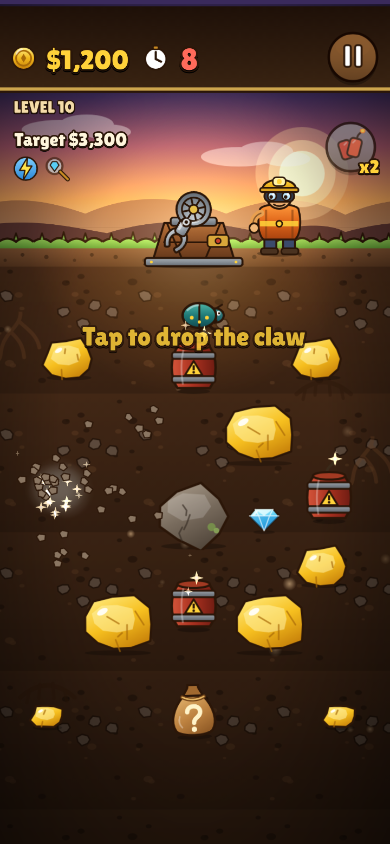
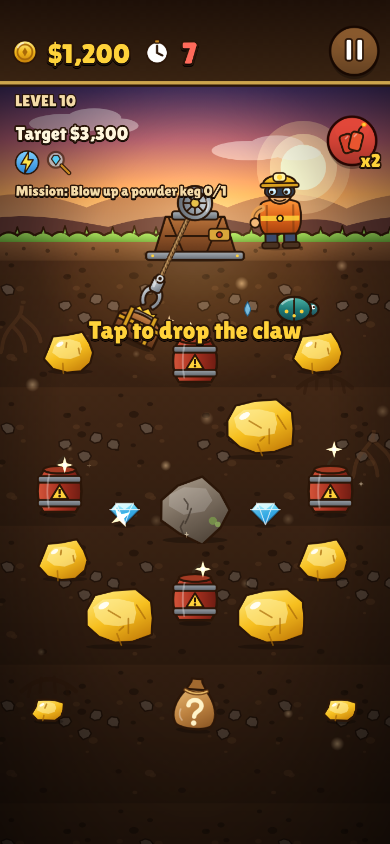
Docs, pause keeps game mode, combo sound, reroll robustness, gallery screenshots
Claude-Session: https://claude.ai/code/session_01MzS7agv8rYuzaX6HZ42hxe

diff --git a/e2e/layout.spec.ts b/e2e/layout.spec.ts
@@ -107,13 +107,32 @@ test('screens gallery (shop, level select, complete, game over, pause, settings)
     s.inventory.blastCaps = 2;
     s.levels = { '1': { stars: 3, best: 1900 }, '2': { stars: 2, best: 2100 }, '3': { stars: 1, best: 1800 }, '4': { stars: 3, best: 3100 }, '5': { stars: 2, best: 2900 }, '6': { stars: 1, best: 2600 }, '7': { stars: 2, best: 3000 } };
     s.phase = 'shop';
-    s.shop = { seed: 11, afterLevel: 7, bought: [] };
+    s.shop = { seed: 11, afterLevel: 7, bought: [], rerolls: 0 };
     d.services.save.save();
   });
+  await goto('MainMenu');
+  await page.screenshot({ path: `${OUT}/screen-menu.png` });
   await goto('Shop');
   await page.screenshot({ path: `${OUT}/screen-shop.png` });
+  await page.evaluate(() => (window as any).__game.scene.getScene('Shop').setTab('deals'));
+  await page.waitForTimeout(1000);
+  await page.screenshot({ path: `${OUT}/screen-shop-deals.png` });
+  await goto('Workshop');
+  await page.screenshot({ path: `${OUT}/screen-workshop-upgrades.png` });
+  await page.evaluate(() => (window as any).__game.scene.getScene('Workshop').setTab('claws'));
+  await page.waitForTimeout(800);
+  await page.screenshot({ path: `${OUT}/screen-workshop-claws.png` });
+  await page.evaluate(() => (window as any).__game.scene.getScene('Workshop').setTab('style'));
+  await page.waitForTimeout(800);
+  await page.screenshot({ path: `${OUT}/screen-workshop-style.png` });
+  await goto('Achievements');
+  await page.screenshot({ path: `${OUT}/screen-achievements.png` });
+  await goto('Results', { kind: 'endless', score: 4200, waves: 6, newBest: true, walletGain: 1260, best: 4200, bestWaves: 6, unlocked: ['endless5'] });
+  await page.screenshot({ path: `${OUT}/screen-results-endless.png` });
   await goto('LevelSelect');
   await page.screenshot({ path: `${OUT}/screen-levelselect.png` });
+  await goto('LevelSelect', { world: 3 });
+  await page.screenshot({ path: `${OUT}/screen-levelselect-world3.png` });
   await goto('LevelComplete', { levelId: 7, earned: 3600, target: 2700, won: true, blastCapsLeft: 2, stars: 3, firstClear: true, newBest: true, walletGain: 3600 });
   await page.screenshot({ path: `${OUT}/screen-levelcomplete.png` });
   await goto('GameOver', { levelId: 7, earned: 1900, target: 2700 });
@@ -124,6 +143,19 @@ test('screens gallery (shop, level select, complete, game over, pause, settings)
     d.services.save.data.boosts.turbo = true;
     d.services.save.data.boosts.gemLens = true;
   });
+  for (const lv of [25, 45, 65, 85]) {
+    await goto('Game', { levelId: lv });
+    await page.screenshot({ path: `${OUT}/screen-game-level${lv}.png` });
+  }
+  await goto('Game', { levelId: 20 });
+  await page.evaluate(() => {
+    const game = (window as any).__game.scene.getScene('Game');
+    game.scene.pause();
+    game.scene.launch('Story', { beat: 'w1_boss', from: 'Game' });
+  });
+  await waitScene(page, 'Story');
+  await page.waitForTimeout(3500);
+  await page.screenshot({ path: `${OUT}/screen-story.png` });
   await goto('Game', { levelId: 10 });
   await page.evaluate(() => {
     const s = (window as any).__dc.session;

diff --git a/src/scenes/Pause.ts b/src/scenes/Pause.ts
@@ -8,13 +8,15 @@ import { COLORS, Layout, txt } from '../ui/theme';
 /** Overlay scene shown while the Game scene is paused. */
 export class Pause extends Phaser.Scene {
   private levelId = 1;
+  private mode: 'campaign' | 'weekly' | 'endless' = 'campaign';
 
   constructor() {
     super('Pause');
   }
 
-  init(data: { levelId: number }): void {
+  init(data: { levelId: number; mode?: 'campaign' | 'weekly' | 'endless' }): void {
     this.levelId = data.levelId;
+    this.mode = data.mode ?? 'campaign';
   }
 
   create(): void {
@@ -24,7 +26,7 @@ export class Pause extends Phaser.Scene {
     dim(this, layout, 0.66);
     panel(this, cx, cy, 600, 780);
     txt(this, cx, cy - 300, t('paused').toUpperCase(), 72, { color: COLORS.textGold, strokeW: 10 });
-    txt(this, cx, cy - 230, t('level', { n: this.levelId }), 36, { color: '#f4dba8' });
+    txt(this, cx, cy - 230, this.mode === 'campaign' ? t('level', { n: this.levelId }) : this.mode === 'weekly' ? t('weeklyTitle') : t('endless'), 36, { color: '#f4dba8' });
 
     const resume = () => {
       this.scene.stop();
@@ -40,7 +42,7 @@ export class Pause extends Phaser.Scene {
       tint: COLORS.gold,
       onClick: () => {
         this.scene.stop();
-        this.scene.start('Game', { levelId: this.levelId });
+        this.scene.start('Game', { levelId: this.levelId, mode: this.mode });
       },
     });
     new Button(this, cx, cy + 110, {
@@ -50,7 +52,7 @@ export class Pause extends Phaser.Scene {
       tint: COLORS.blue,
       onClick: () => {
         this.scene.pause();
-        this.scene.launch('Settings', { from: 'Pause', levelId: this.levelId });
+        this.scene.launch('Settings', { from: 'Pause', levelId: this.levelId, mode: this.mode });
       },
     });
     new Button(this, cx, cy + 230, {

diff --git a/src/scenes/Game.ts b/src/scenes/Game.ts
@@ -428,7 +428,7 @@ export class Game extends Phaser.Scene {
     services.audio.loop('reel', false);
     this.reelOn = false;
     this.scene.pause();
-    this.scene.launch('Pause', { levelId: this.levelId });
+    this.scene.launch('Pause', { levelId: this.levelId, mode: this.mode });
   }
 
   // ------------------------------------------------------------------ loop
@@ -555,7 +555,7 @@ export class Game extends Phaser.Scene {
     if (ev.kind === 'diamond' || (ev.kind === 'beetle' && ev.value > 100)) audio.sfx('diamond');
     else if (ev.kind === 'chest') audio.sfx('bag');
     else if (ev.kind === 'rockS' || ev.kind === 'rockL') audio.sfx('rock');
-    else audio.sfx('gold');
+    else audio.sfx('gold', 1, Math.min(1.5, 1 + 0.05 * ev.combo));
     if (ev.value > 0) this.floats.show(this, px, py - 30, '+' + money(ev.value), COLORS.textGold, ev.value >= 500 ? 64 : 52);
     audio.vibrate(ev.value >= 500 ? 35 : 15);
   }

diff --git a/src/scenes/Settings.ts b/src/scenes/Settings.ts
@@ -9,6 +9,7 @@ import type { Lang } from '../systems/Save';
 interface Data {
   from: 'MainMenu' | 'Pause';
   levelId?: number;
+  mode?: 'campaign' | 'weekly' | 'endless';
 }
 
 /** Overlay scene: music / SFX sliders, vibration, language, reset. */
@@ -117,7 +118,7 @@ export class Settings extends Phaser.Scene {
   }
 
   private close(refresh: boolean, toMenu = false): void {
-    const { from, levelId } = this.data0;
+    const { from, levelId, mode } = this.data0;
     services.save.save();
     this.scene.stop();
     if (from === 'MainMenu') {
@@ -131,7 +132,7 @@ export class Settings extends Phaser.Scene {
         return;
       }
       this.scene.stop('Pause');
-      this.scene.launch('Pause', { levelId });
+      this.scene.launch('Pause', { levelId, mode });
     }
   }
 }

diff --git a/src/systems/Shop.ts b/src/systems/Shop.ts
@@ -49,8 +49,8 @@ export function dealOffers(seed: number, rerolls = 0): ShopOffer[] {
   });
 }
 
-export function rerollCost(rerolls: number): number {
-  return SHOP.rerollBase * (rerolls + 1);
+export function rerollCost(rerolls = 0): number {
+  return SHOP.rerollBase * ((rerolls || 0) + 1);
 }
 
 export function reroll(save: SaveData): boolean {
@@ -58,7 +58,7 @@ export function reroll(save: SaveData): boolean {
   const cost = rerollCost(save.shop.rerolls);
   if (save.wallet < cost) return false;
   save.wallet -= cost;
-  save.shop.rerolls++;
+  save.shop.rerolls = (save.shop.rerolls || 0) + 1;
   save.shop.bought = [];
   return true;
 }

diff --git a/docs/REPORT.md b/docs/REPORT.md
@@ -2,36 +2,50 @@
 
 ## Yapılanlar
 
+**Temel oyun**
 - Phaser 3.90.0 + TypeScript (strict) + Vite. `npm run build` hatasız, `base: './'`.
-- 10 sahne: Boot, Preload, Ana Menü, Bölüm Seçimi, Oyun, Duraklat, Ayarlar, Bölüm Tamam, Oyun Bitti, Dükkân. Geçişler 240 ms solma.
-- Kanca durum makinesi (Swinging, Launching, Hooked, Missed, Retracting, Collecting), süpürmeli (swept) çarpışma, dt en fazla 50 ms.
-- 9 nesne türü: altın (3 boy), elmas, kaya (2 boy), gizemli torba, barut fıçısı (zincirleme patlama), böcek (hareketli).
-- 20 bölüm (`src/data/levels.ts`), 60 sn, hedef, 1-2-3 yıldız, denge kontrolü.
-- Dükkân: 8 eşya. Patlatıcı Kapsül (kalıcı); Turbo Vinç Yağı, Şanslı Fener, Mücevher Merceği, Cevher Ezici, Kum Saati (+15 sn), Altın Ateşi (altın x1,5), Yardımcı Madenci (7 sn'de bir en yakın altını alır) sadece sonraki bölüm için. Her ziyarette 4 boost + Kapsül görünür. Fiyatlar yüksek (300-4500).
-- Kayıt: localStorage, sürümlü JSON, bozuk/eski kayıt güvenli. İngilizce / Türkçe.
-- Orijinal SVG görseller (`public/assets/images`) ve sentezlenmiş sesler (`public/assets/audio`), tek manifest.
-- Sayfa arka plana gidince otomatik duraklama ve ses kısma.
+- Kanca durum makinesi, süpürmeli çarpışma, dt en fazla 50 ms, 9+2 nesne türü (altın x3, elmas, kaya x2, gizemli torba, barut fıçısı, böcek, hazine sandığı, asit balçığı).
+- Kayıt (localStorage, sürümlü, bozuk veriye dayanıklı), İngilizce / Türkçe, sesler ve müzik, orijinal SVG görseller.
+
+**Bölümler ve hikaye**
+- **100 bölüm**, 5 dünya (Eski Maden, Yankı Mağaraları, Magma Derinlikleri, Donmuş Kasa, Uçurum). İlk 20 bölüm elle tasarlandı, 21-100 `tools/build-levels.ts` ile üretilip veri olarak kaydedildi (`src/data/generatedLevels.ts`). Her dünyanın kendi renk teması var.
+- Her 20. bölüm bir **patron bölümü** (ek ödül).
+- **Hikaye modu**: Dusty (madenci), Çakıl (köstebek) ve Baron Gizmo ile 5 bölümlük hikaye. Her dünyanın başında bölüm kartı, ortasında ve patronda diyalog, 100. bölümden sonra final. Diyaloglar bir kez gösterilir, "Geç" ile atlanır (`src/data/story.ts`).
+- Her bölümde **yan görev** (elmas topla, seri yap, fıçı patlat...). Görev ödülü ilk geçişte verilir.
+
+**Oynanış**
+- **Seri (combo)**: art arda değerli çekişler x1,5'e kadar çarpan verir, boş çekiş ve kaya seriyi bozar.
+- Yakın kaybetme ekranı ("Ramak kaldı, sadece X eksik"), tek dokunuşla tekrar dene.
+- Zaman Dondurucu (süre ve böcekler 6 sn durur), Atlama Bileti (geçemediğin bölümü atla).
+- Elmas/sandık/büyük altında sarsıntı ve parlama, balçık çekersen para kaybedersin.
+
+**Para harcama yerleri (dükkân tek yer değil)**
+- **Dükkân** (bölüm sonrası ve menüden): Malzeme sekmesi (Patlatıcı, Patlatıcı Paketi, Zaman Dondurucu, Gizemli Sandık, Atlama Bileti) ve Fırsatlar sekmesi (7 güçlendirmeden 4'ü, biri indirimli, ücretle yenilenir).
+- **Atölye** (menüden): kalıcı **Yükseltmeler** (Hızlı Vinç, Güçlü Kollar, Cep Saati, Talih, her biri 5 seviye), **Kancalar** (Geniş, Hızlı, Titan), **Stil** (4 madenci kıyafeti, 4 kanca kaplaması, 3 ip rengi).
+- Ekonomi sıkı: ilk geçişte kazancın %60'ı cüzdana girer, fiyatlar 300-6000 arası.
+
+**Ek modlar ve geri dönüş sebepleri**
+- **Sonsuz mod**: süre sınırı yok, alan temizlenince yeni dalga ve +10 sn, kişisel rekor.
+- **Haftalık meydan okuma**: haftaya göre sabit yerleşim, haftada bir kez ödül.
+- **Günlük hediye** (7 günlük seri), **16 başarım** (ödüllü, ilerleme çubuklu).
 
 ## Test sonuçları
 
-- Birim testleri (Vitest): **109 test geçti** (kanca, çarpışma, oturum, ekonomi, dükkân, kayıt, bölüm geçerliliği, bölüm dengesi).
-- Tarayıcı testleri (Playwright, Chromium): **17 test geçti** (açılış, konsol hatası yok, dokunuşla fırlatma, HUD düğmesi fırlatmıyor, toplama, kazan-dükkân-satın al-sonraki bölüm, yeniden yükle-Devam, kaybet-yeniden dene, Patlatıcı, dil, 5 ekran boyutu için düzen kontrolü, ekran galerisi).
-- Ekran görüntüleri: `docs/screenshots/` (360x640, 390x844, 412x915, 768x1024, 1280x720). Siyah bant yok, HUD ekran içinde ve üst üste binmiyor.
+- Birim testleri (Vitest): **296 test geçti** (kanca, çarpışma, oturum, seri, dondurma, yükseltmeler, dükkân, sandık, kozmetik, günlük hediye, başarımlar, kayıt, hikaye, görevler, 100 bölümün geçerliliği ve dengesi).
+- Tarayıcı testleri (Playwright): **27 test geçti** (temel akış, hikaye diyaloğu, sonsuz mod, haftalık, atölye alışverişi, günlük hediye, başarımlar, dünya sayfaları, dondurma, sandık, 5 ekran boyutunda düzen kontrolü, ekran galerisi).
+- Ekran görüntüleri: `docs/screenshots/`.
 
 ## Bilinen eksikler ve dürüst notlar
 
-- **Gerçek telefonda denenmedi.** Testler yazılımla çizen Chromium'da (yaklaşık 6 FPS) koştu, bu yüzden 60 FPS hedefi ölçülemedi. Mantık testleri oyunu kodla ilerletir.
-- Bölüm hedefleri bir tahmin modeline göre ayarlandı (`src/systems/Balance.ts`), gerçek oyuncu verisi yok. Gerçek denemeden sonra hedefler değişebilir.
-- Görseller 1x çözünürlükte çizilir; yüksek DPI telefonlarda biraz yumuşak görünebilir.
-- Ses ve görseller geçici (yer tutucu) kalitededir; kendi dosyalarınla değiştirilecek (`docs/ASSETS.md`).
-- Daha önce temizlenmiş bir bölümü tekrar oynayınca cüzdana para eklenmez (para üretme hilesini önlemek için). Yıldız ve rekor güncellenir.
-- Kaybedilen denemede harcanan Patlatıcı ve boost'lar geri verilir (kayıt sadece kazanınca değişir).
-- Capacitor eklenmedi (istendiği gibi), adımlar `docs/ANDROID.md` içinde.
-- Android geri tuşu, uygulama ikonu ve mağaza görselleri henüz yok.
+- **Gerçek telefonda denenmedi.** Testler yazılımla çizen Chromium'da (yaklaşık 6 FPS) koştu, 60 FPS ölçülemedi.
+- **Bölüm hedefleri bir tahmin modeline göre ayarlı** (`src/systems/Balance.ts`), gerçek oyuncu verisi yok. Seri çarpanı ve yükseltmeler tahmin modeline dahil değil, yani gerçekte oyun biraz kolay olabilir. 21-100. bölümler üretilmiş yerleşimlerdir, tek tek elle cilalanmadı.
+- Bölüm adları ve görev metinleri dışında 21-100 bölümlerde özel el yapımı bulmaca yok.
+- Hikaye metinleri kısa ve basit; senin düzeltmene açık (`src/data/story.ts`).
+- Haftalık meydan okuma tek cihazda yerel; skor tablosu ve çevrimiçi yarış yok (sunucu gerekir).
+- Görseller 1x çözünürlükte, ses ve görseller geçici kalitede (kendi dosyalarınla değiştirilecek, `docs/ASSETS.md`).
+- Daha önce geçilmiş bölümü tekrar oynayınca cüzdana para eklenmez. Kaybedilen denemede kullanılan eşyalar geri verilir.
+- Capacitor eklenmedi, adımlar `docs/ANDROID.md` içinde. Android geri tuşu, ikon ve mağaza görselleri yok.
 
 ## Sonraki fikirler
 
-Daha fazla bölüm, gerçek ses ve çizimler, reklam/IAP yok ama istenirse eklenebilir, yüksek DPI doku, başarımlar, günlük ödül.
-
-## Ekonomi notu
-Bir bölümü ilk kez geçince kazancın %60'ı cüzdana girer (`SHOP.walletShare`), kalanı işletme gideri sayılır. Fiyatlar `src/config/economy.ts` içinde; sayıları oradan değiştirmek yeterli.
+Yeni dünyalar ve bölüm paketleri, patron bölümlerine özel mekanikler, sezon/etkinlik bölümleri, çevrimiçi skor tablosu, evcil hayvan yardımcılar, daha fazla kıyafet, gerçek ses ve çizimler.

diff --git a/CLAUDE.md b/CLAUDE.md
@@ -27,10 +27,13 @@ An original portrait mobile arcade game in the "swinging claw mining" genre, bui
 - 2026-11-02: repo restructured for the Phaser build. `MASTER_PROMPT.md` written. No game code yet.
 - 2026-11-02: first full build done on branch `claude/sharp-turing-k259yo` (PR into `main`): all 8 screens, 20 levels, shop with 5 items, save system, original SVG art and synthesized audio, unit tests (Vitest) and browser tests (Playwright). See `docs/REPORT.md` for what is done, test results and known gaps.
 
+- 2026-11-05: big content pass on the same branch: 100 levels (20 hand made + 80 generated and baked), story mode, missions, combo, shop tabs, Workshop (upgrades, claws, cosmetics), Endless, Weekly, daily gift, achievements. See `docs/REPORT.md`.
+
 ## How things are organised
 - Pure game logic (no Phaser, unit tested): `src/systems/` (Claw, Collision, Session, Economy, Shop, Progress, Save, Balance). Phaser scenes only draw and forward input.
 - All numbers: `src/config/game.ts` (feel, layout) and `src/config/economy.ts` (values, weights, prices, effects).
-- Levels: `src/data/levels.ts`. After changing a level run `npx vite-node tools/balance-report.ts` and `npm test` (balance check).
+- Levels: `src/data/levels.ts` (hand made 1-20) and `src/data/generatedLevels.ts` (21-100, made by `npx vite-node tools/build-levels.ts`). Story text: `src/data/story.ts`. After changing a level run `npx vite-node tools/balance-report.ts` and `npm test` (balance check).
 - Art / sound files: `public/assets/`, listed in `src/assets/manifest.ts` and `docs/ASSETS.md`. The generators in `tools/` made the first version only.
 - Test hooks: open the game with `?debug=1` to get `window.__game` and `window.__dc` (session, services). Playwright tests use them.
 - Software-rendered headless Chromium runs the game at about 6 fps, so browser tests step the session by code (`stepSession`) instead of waiting for real time.
+- Extra URL switches for tests: `&norender=1` (skip GPU draw calls, fast) and `&nostory=1` (skip dialogues).

diff --git a/README.md b/README.md
@@ -31,6 +31,13 @@ Telefonda denemek için: bilgisayar ve telefon aynı Wi-Fi'de olsun, `npm run de
 - **D** tuşu (veya ekrandaki patlatıcı düğmesi): çektiğin şeyi patlatır, kanca boş ve hızlı döner.
 - **P** veya **Esc**: duraklat.
 
+### Oyunda neler var
+
+- **Hikaye** (Oyna): 100 bölüm, 5 dünya, patron savaşları, Dusty ve Çakıl'ın macerası.
+- **Sonsuz**, **Haftalık** meydan okuma, **Günlük hediye**, **Ödüller** (başarımlar).
+- **Dükkân** (tüketilenler ve fırsatlar) ve **Atölye** (kalıcı yükseltmeler, kancalar, kıyafetler).
+- Seri (combo), bölüm görevleri, Zaman Dondurucu, Atlama Bileti.
+
 ### Komutlar
 
 | Komut | Ne yapar |
@@ -54,7 +61,8 @@ Telefonda denemek için: bilgisayar ve telefon aynı Wi-Fi'de olsun, `npm run de
 | `MASTER_PROMPT.md` | Oyunun tam tarifi |
 | `CLAUDE.md` | Bu repoda çalışan Claude oturumları için kurallar ve durum |
 | `src/config/` | Para, ağırlık, hız, fiyat gibi **tüm sayılar** burada |
-| `src/data/levels.ts` | 20 bölümün yerleşimi ve hedefleri |
+| `src/data/levels.ts`, `generatedLevels.ts` | 100 bölümün yerleşimi ve hedefleri |
+| `src/data/story.ts` | Hikaye diyalogları |
 | `docs/ASSETS.md` | Görsel ve ses listesi |
 | `docs/ANDROID.md` | Android paketi ve Google Play adımları |
 | `docs/REPORT.md` | Neler yapıldı, test sonuçları, eksikler |
